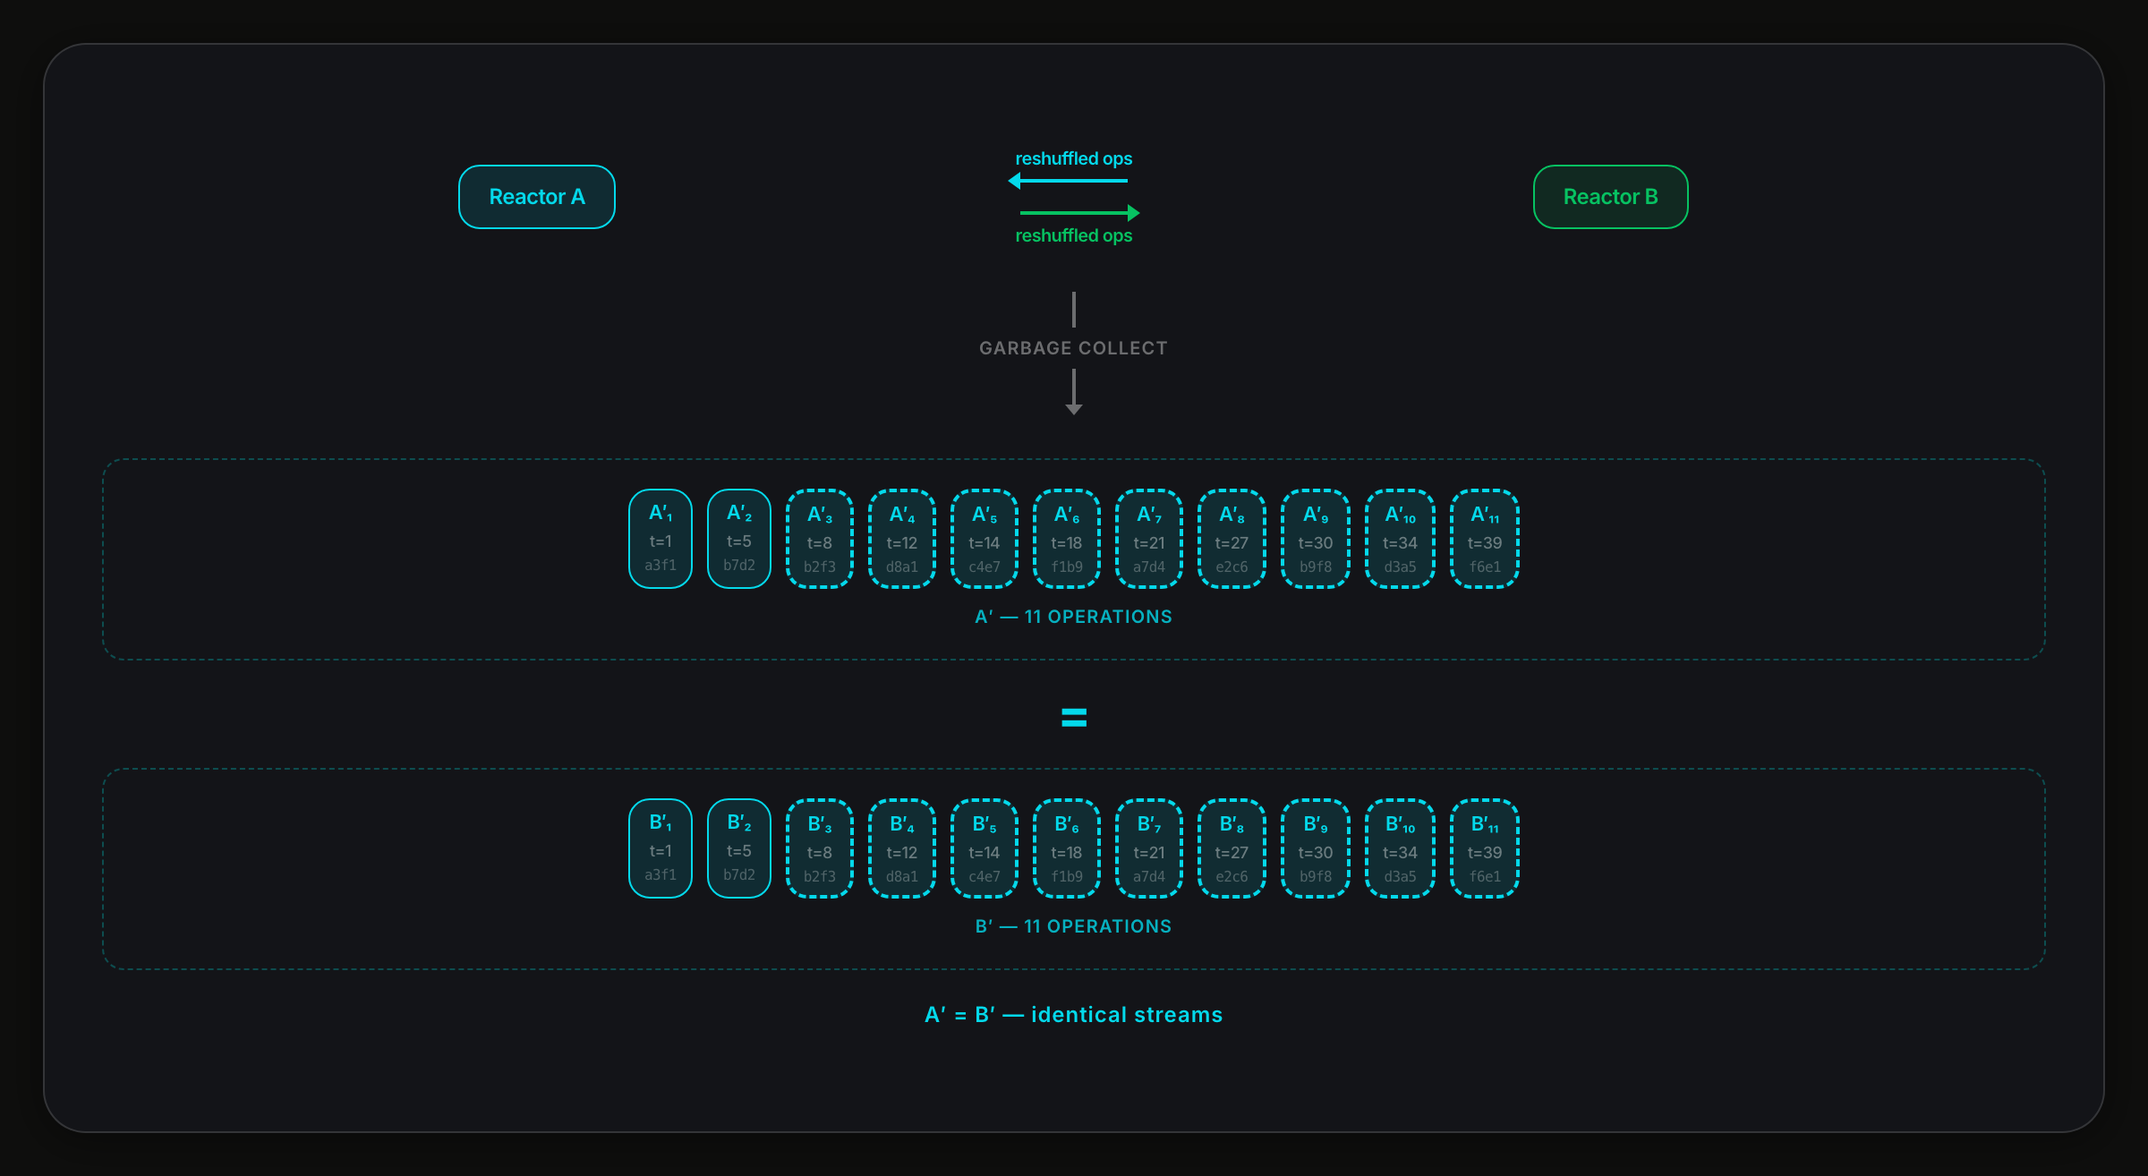
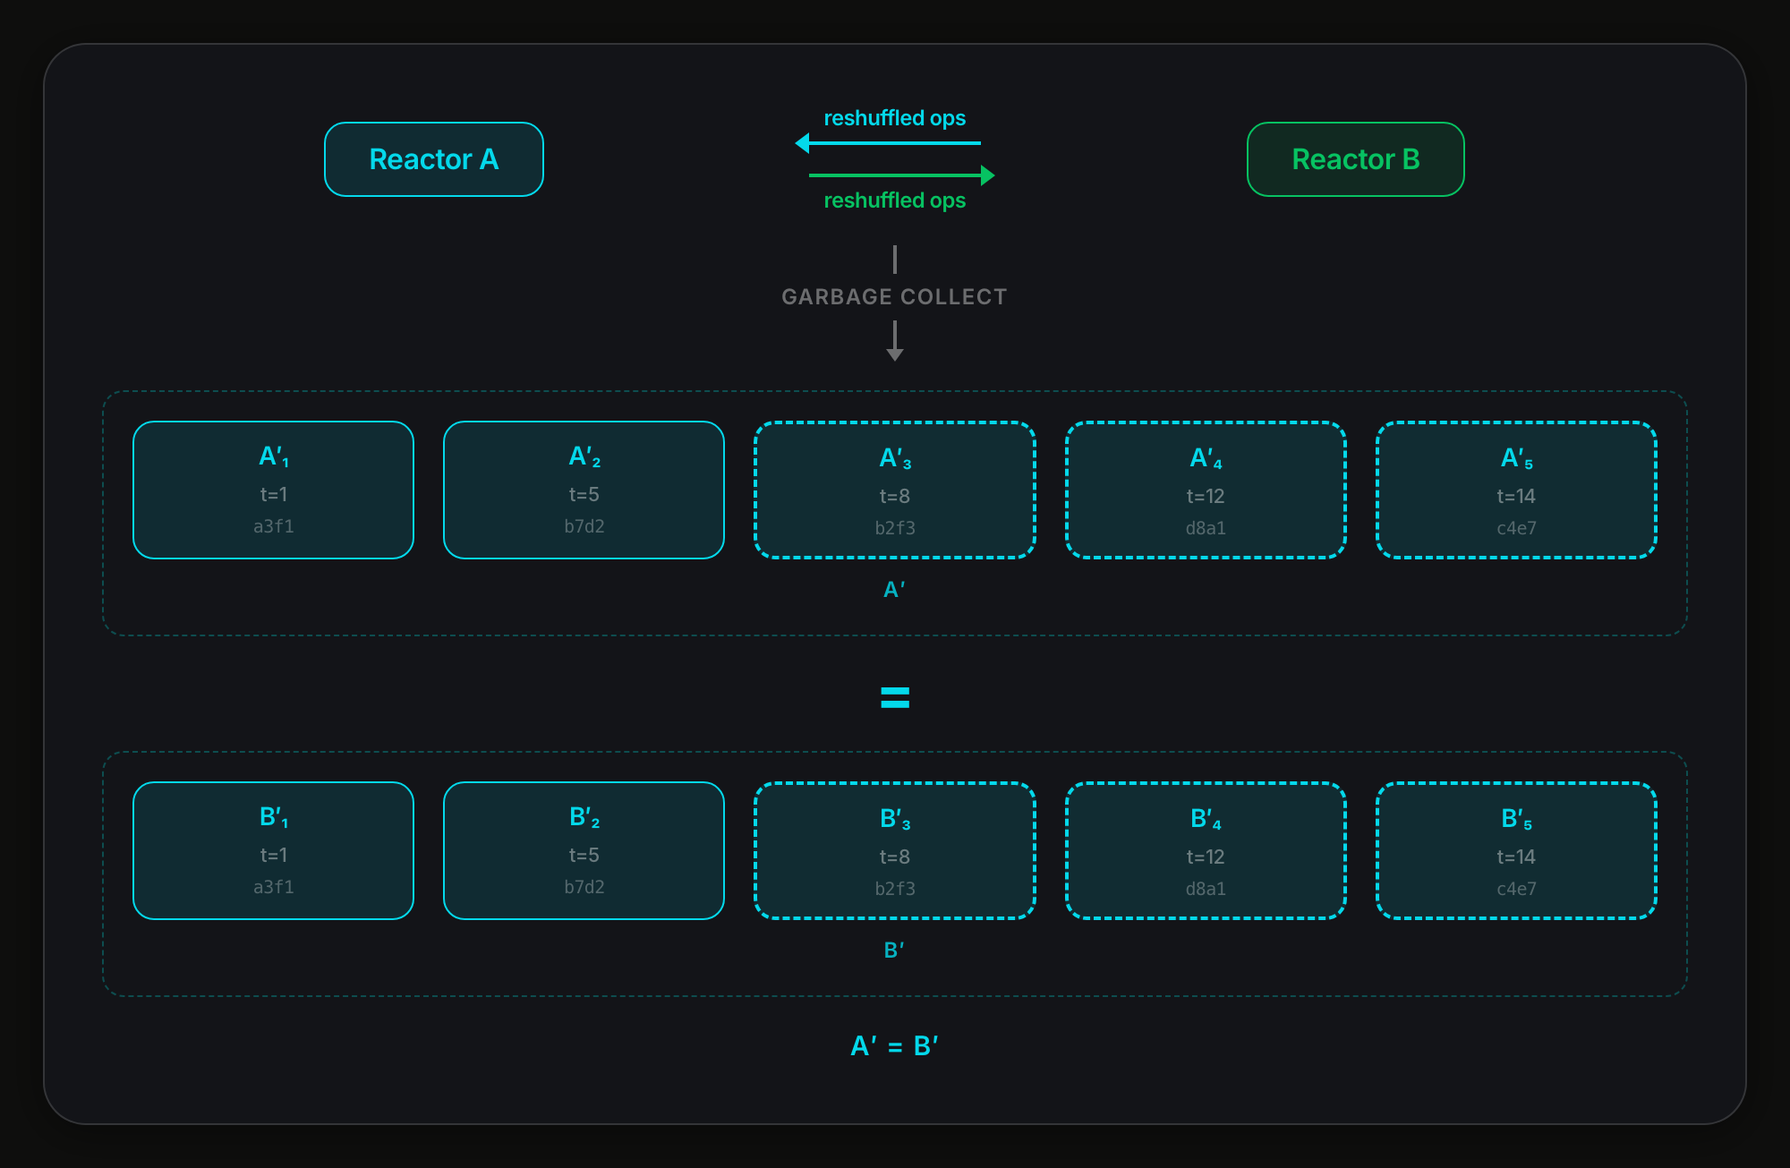
rebuild: bidirectional-sync authored larger, five ops a side

diff --git a/diagrams/pages/bidirectional-sync.html b/diagrams/pages/bidirectional-sync.html
@@ -9,7 +9,11 @@
   <link rel="stylesheet" href="../css/base.css">
   <link rel="stylesheet" href="../css/components.css">
   <style>
-    .frame { max-width: 1200px; }
+    /* Authored large on purpose. The deck scales this page up to fill its art box, and
+       hairline borders on small boxes break up under a fractional upscale — which is what
+       made the old 1200px / 11px / 11-op version look ragged. Five ops per stream is
+       enough to show A' and B' landing identical. */
+    .frame { max-width: 1000px; }
     .card { height: auto; }
     .card-body { flex: none; }
 
@@ -17,13 +21,14 @@
       background: var(--bg-elevated);
       border: 1px solid var(--border-glass);
       border-radius: var(--radius-md);
-      padding: var(--space-xs) var(--space-sm);
-      font-size: 11px;
+      padding: var(--space-sm) var(--space-md);
+      font-size: 14px;
       font-weight: var(--font-weight-semibold);
       text-align: center;
     }
     .box.accent-cyan  { border-color: var(--accent-cyan);  background: var(--accent-cyan-bg);  color: var(--accent-cyan); }
     .box.accent-green { border-color: var(--accent-green); background: var(--accent-green-bg); color: var(--accent-green); }
+    /* Operations created by the reshuffle, as opposed to ones carried over untouched. */
     .box.accent-new {
       border: 2px dashed var(--accent-cyan);
       background: var(--accent-cyan-bg);
@@ -31,24 +36,23 @@
     }
 
     .ts {
-      font-size: 9px;
-      color: var(--text-muted);
-      font-weight: var(--font-weight-medium);
       display: block;
-      margin-top: 1px;
+      font-size: 11px;
+      font-weight: var(--font-weight-medium);
+      color: var(--text-muted);
+      margin-top: 3px;
     }
-
     .hash {
-      font-size: 8px;
-      color: var(--text-muted);
-      font-family: var(--font-mono, 'SF Mono', 'Fira Code', monospace);
-      font-weight: var(--font-weight-medium);
       display: block;
-      opacity: 0.7;
-      margin-top: 1px;
+      font-family: var(--font-mono, 'SF Mono', 'Fira Code', monospace);
+      font-size: 10px;
+      font-weight: var(--font-weight-medium);
+      color: var(--text-muted);
+      opacity: 0.75;
+      margin-top: 2px;
     }
 
-    /* Reactor row with sync arrows */
+    /* Reactor A  <->  Reactor B */
     .reactor-row {
       display: grid;
       grid-template-columns: 1fr auto 1fr;
@@ -56,10 +60,10 @@
       align-items: center;
     }
     .reactor-label {
-      padding: var(--space-sm) var(--space-md);
-      font-size: 12px;
+      justify-self: center;
+      padding: var(--space-sm) var(--space-lg);
+      font-size: 16px;
     }
-
     .sync-arrows {
       display: flex;
       flex-direction: column;
@@ -72,60 +76,54 @@
       align-items: center;
       gap: var(--space-xs);
     }
-    .sync-arrow-line-left {
-      width: 60px;
+    .sync-line {
+      width: 96px;
       height: 2px;
-      background: var(--accent-cyan);
       position: relative;
     }
-    .sync-arrow-line-left::before {
+    .sync-line.to-left { background: var(--accent-cyan); }
+    .sync-line.to-left::before {
       content: '';
       position: absolute;
       right: 100%;
       top: 50%;
       transform: translateY(-50%);
-      border-top: 5px solid transparent;
-      border-bottom: 5px solid transparent;
-      border-right: 7px solid var(--accent-cyan);
+      border-top: 6px solid transparent;
+      border-bottom: 6px solid transparent;
+      border-right: 8px solid var(--accent-cyan);
     }
-    .sync-arrow-line-right {
-      width: 60px;
-      height: 2px;
-      background: var(--accent-green);
-      position: relative;
-    }
-    .sync-arrow-line-right::after {
+    .sync-line.to-right { background: var(--accent-green); }
+    .sync-line.to-right::after {
       content: '';
       position: absolute;
       left: 100%;
       top: 50%;
       transform: translateY(-50%);
-      border-top: 5px solid transparent;
-      border-bottom: 5px solid transparent;
-      border-left: 7px solid var(--accent-green);
+      border-top: 6px solid transparent;
+      border-bottom: 6px solid transparent;
+      border-left: 8px solid var(--accent-green);
     }
-    .sync-arrow-label {
-      font-size: 10px;
+    .sync-label {
+      font-size: 12px;
       font-weight: var(--font-weight-semibold);
       white-space: nowrap;
     }
-    .sync-arrow-label.label-cyan  { color: var(--accent-cyan); }
-    .sync-arrow-label.label-green { color: var(--accent-green); }
+    .sync-label.cyan  { color: var(--accent-cyan); }
+    .sync-label.green { color: var(--accent-green); }
 
-    /* Arrow down */
     .arrow-down {
       display: flex;
       flex-direction: column;
       align-items: center;
-      margin: var(--space-lg) 0;
+      margin: var(--space-md) 0;
     }
     .arrow-down-line {
       width: 2px;
-      height: 20px;
+      height: 16px;
       background: var(--text-muted);
     }
     .arrow-down-label {
-      font-size: 10px;
+      font-size: 12px;
       font-weight: var(--font-weight-semibold);
       color: var(--text-muted);
       text-transform: uppercase;
@@ -137,17 +135,16 @@
       height: 0;
       border-left: 5px solid transparent;
       border-right: 5px solid transparent;
-      border-top: 6px solid var(--text-muted);
+      border-top: 7px solid var(--text-muted);
     }
 
-    /* Section box and labels */
     .section-box {
       border: 1px dashed rgba(0, 209, 209, 0.3);
       border-radius: var(--radius-md);
       padding: var(--space-md);
     }
     .section-label {
-      font-size: 10px;
+      font-size: 12px;
       font-weight: var(--font-weight-semibold);
       color: var(--accent-cyan);
       text-transform: uppercase;
@@ -158,24 +155,21 @@
     }
 
     .op-row {
-      display: flex;
-      gap: var(--space-sm);
-      justify-content: center;
-      flex-wrap: wrap;
+      display: grid;
+      grid-template-columns: repeat(5, 1fr);
+      gap: var(--space-md);
     }
 
-    /* Equals indicator */
     .equals-indicator {
-      font-size: 28px;
+      font-size: 32px;
       font-weight: var(--font-weight-bold);
       color: var(--accent-cyan);
       text-align: center;
       line-height: 1;
       margin: var(--space-md) 0;
     }
-
     .convergence-label {
-      font-size: 12px;
+      font-size: 15px;
       font-weight: var(--font-weight-semibold);
       color: var(--accent-cyan);
       text-align: center;
@@ -187,25 +181,23 @@
 <body>
   <div class="frame">
     <div class="card">
-      <div class="card-body" style="padding-top: 24px; padding-bottom: 24px;">
+      <div class="card-body">
 
-        <!-- Reactor labels with sync arrows -->
         <div class="reactor-row">
-          <div class="box accent-cyan reactor-label" style="justify-self: center;">Reactor A</div>
+          <div class="box accent-cyan reactor-label">Reactor A</div>
           <div class="sync-arrows">
             <div class="sync-arrow-wrapper">
-              <div class="sync-arrow-label label-cyan">reshuffled ops</div>
-              <div class="sync-arrow-line-left"></div>
+              <div class="sync-label cyan">reshuffled ops</div>
+              <div class="sync-line to-left"></div>
             </div>
             <div class="sync-arrow-wrapper">
-              <div class="sync-arrow-line-right"></div>
-              <div class="sync-arrow-label label-green">reshuffled ops</div>
+              <div class="sync-line to-right"></div>
+              <div class="sync-label green">reshuffled ops</div>
             </div>
           </div>
-          <div class="box accent-green reactor-label" style="justify-self: center;">Reactor B</div>
+          <div class="box accent-green reactor-label">Reactor B</div>
         </div>
 
-        <!-- Arrow down -->
         <div class="arrow-down">
           <div class="arrow-down-line"></div>
           <div class="arrow-down-label">garbage collect</div>
@@ -213,46 +205,33 @@
           <div class="arrow-down-head"></div>
         </div>
 
-        <!-- A′ GC'd stream -->
+        <!-- A' after reshuffle: two ops carried over, three newly created -->
         <div class="section-box">
           <div class="op-row">
-            <div class="box accent-cyan">A′₁ <span class="ts">t=1</span><span class="hash">a3f1</span></div>
-            <div class="box accent-cyan">A′₂ <span class="ts">t=5</span><span class="hash">b7d2</span></div>
-            <div class="box accent-new">A′₃ <span class="ts">t=8</span><span class="hash">b2f3</span></div>
-            <div class="box accent-new">A′₄ <span class="ts">t=12</span><span class="hash">d8a1</span></div>
-            <div class="box accent-new">A′₅ <span class="ts">t=14</span><span class="hash">c4e7</span></div>
-            <div class="box accent-new">A′₆ <span class="ts">t=18</span><span class="hash">f1b9</span></div>
-            <div class="box accent-new">A′₇ <span class="ts">t=21</span><span class="hash">a7d4</span></div>
-            <div class="box accent-new">A′₈ <span class="ts">t=27</span><span class="hash">e2c6</span></div>
-            <div class="box accent-new">A′₉ <span class="ts">t=30</span><span class="hash">b9f8</span></div>
-            <div class="box accent-new">A′₁₀ <span class="ts">t=34</span><span class="hash">d3a5</span></div>
-            <div class="box accent-new">A′₁₁ <span class="ts">t=39</span><span class="hash">f6e1</span></div>
+            <div class="box accent-cyan">A&prime;&#8321;<span class="ts">t=1</span><span class="hash">a3f1</span></div>
+            <div class="box accent-cyan">A&prime;&#8322;<span class="ts">t=5</span><span class="hash">b7d2</span></div>
+            <div class="box accent-new">A&prime;&#8323;<span class="ts">t=8</span><span class="hash">b2f3</span></div>
+            <div class="box accent-new">A&prime;&#8324;<span class="ts">t=12</span><span class="hash">d8a1</span></div>
+            <div class="box accent-new">A&prime;&#8325;<span class="ts">t=14</span><span class="hash">c4e7</span></div>
           </div>
-          <div class="section-label">A&prime; &mdash; 11 operations</div>
+          <div class="section-label">A&prime;</div>
         </div>
 
-        <!-- Equals -->
         <div class="equals-indicator">=</div>
 
-        <!-- B′ GC'd stream -->
+        <!-- B' lands on exactly the same stream -->
         <div class="section-box">
           <div class="op-row">
-            <div class="box accent-cyan">B′₁ <span class="ts">t=1</span><span class="hash">a3f1</span></div>
-            <div class="box accent-cyan">B′₂ <span class="ts">t=5</span><span class="hash">b7d2</span></div>
-            <div class="box accent-new">B′₃ <span class="ts">t=8</span><span class="hash">b2f3</span></div>
-            <div class="box accent-new">B′₄ <span class="ts">t=12</span><span class="hash">d8a1</span></div>
-            <div class="box accent-new">B′₅ <span class="ts">t=14</span><span class="hash">c4e7</span></div>
-            <div class="box accent-new">B′₆ <span class="ts">t=18</span><span class="hash">f1b9</span></div>
-            <div class="box accent-new">B′₇ <span class="ts">t=21</span><span class="hash">a7d4</span></div>
-            <div class="box accent-new">B′₈ <span class="ts">t=27</span><span class="hash">e2c6</span></div>
-            <div class="box accent-new">B′₉ <span class="ts">t=30</span><span class="hash">b9f8</span></div>
-            <div class="box accent-new">B′₁₀ <span class="ts">t=34</span><span class="hash">d3a5</span></div>
-            <div class="box accent-new">B′₁₁ <span class="ts">t=39</span><span class="hash">f6e1</span></div>
+            <div class="box accent-cyan">B&prime;&#8321;<span class="ts">t=1</span><span class="hash">a3f1</span></div>
+            <div class="box accent-cyan">B&prime;&#8322;<span class="ts">t=5</span><span class="hash">b7d2</span></div>
+            <div class="box accent-new">B&prime;&#8323;<span class="ts">t=8</span><span class="hash">b2f3</span></div>
+            <div class="box accent-new">B&prime;&#8324;<span class="ts">t=12</span><span class="hash">d8a1</span></div>
+            <div class="box accent-new">B&prime;&#8325;<span class="ts">t=14</span><span class="hash">c4e7</span></div>
           </div>
-          <div class="section-label">B&prime; &mdash; 11 operations</div>
+          <div class="section-label">B&prime;</div>
         </div>
 
-        <div class="convergence-label">A&prime; = B&prime; &mdash; identical streams</div>
+        <div class="convergence-label">A&prime; = B&prime;</div>
 
       </div>
     </div>

diff --git a/index.html b/index.html
@@ -81,7 +81,7 @@
       <section data-slide="24"><header class="hd"><h2>Step 2: find the merge base</h2><span class="sec">Act III — Sync</span></header><div class="art"><div class="fit"><iframe src="diagrams/pages/merge-base-highlighted.html" data-w="1200" style="width:1200px" scrolling="no" title="Merge base and the conflicted range"></iframe></div></div><aside class="notes"><h4>Step 2: find the merge base</h4><ul><li>II: &quot;we walk from start to front to find where the streams diverge, relative to A.&quot;</li><li>Same hash means same operation. First mismatch is the divergence. II: &quot;In more familiar git terminology, this would be called the 'merge base'.&quot;</li><li>II: &quot;we now have 9 operations in a conflicted state: 4 from A and 5 from B.&quot;</li></ul></aside></section>
       <section data-slide="25"><header class="hd"><h2>Step 3: replay from the merge base</h2><span class="sec">Act III — Sync</span></header><div class="art"><div class="fit"><iframe src="diagrams/pages/reshuffled-new-ops.html" data-w="1100" style="width:1100px" scrolling="no" title="Replay actions in timestamp order as new operations"></iframe></div></div><aside class="notes"><h4>Step 3: replay from the merge base</h4><ul><li>Replay the 9 Actions in timestamp order. Nine new Operations.</li><li>II: &quot;the hashes of each of the new operations will be different than the original, but the timestamps remain the same... the ordinal is part of the hash.&quot;</li><li>II: &quot;This hash, however, is different than the signature (which itself is a hash) on the Action. That is, the user's intent did not change.&quot;</li></ul></aside></section>
       <section data-slide="26"><header class="hd"><h2>Step 4: skip, then garbage-collect</h2><span class="sec">Act III — Sync</span></header><div class="art"><div class="fit"><iframe src="diagrams/pages/skip-value-gc-stream.html" data-w="1200" style="width:1200px" scrolling="no" title="Skip value and the garbage-collected stream"></iframe></div></div><aside class="notes"><h4>Step 4: skip, then garbage-collect</h4><ul><li>II: &quot;since 4 of these operations are already in A, they have already been written to the append-only operation store. Blast those fickle audit trails! We can't delete these, so instead we need to skip them.&quot;</li><li>II: &quot;the skip value of 4 on A₇ means that when we create a projection of this stream, we will skip the preceding 4 operations.&quot;</li><li>II: &quot;The operation stream with all of the skipped operations removed we call the garbage collected stream.&quot;</li></ul></aside></section>
-      <section data-slide="27"><header class="hd"><h2>Both sides converge</h2><span class="sec">Act III — Sync</span></header><div class="art"><div class="fit"><iframe src="diagrams/pages/bidirectional-sync.html" data-w="1200" style="width:1200px" scrolling="no" title="Bidirectional sync: A′ = B′"></iframe></div></div><aside class="notes"><h4>Both sides converge</h4><ul><li>Same procedure on both peers, exchange reshuffled ops, A′ = B′. Repeats as work continues (ping-pong, appendix).</li></ul></aside></section>
+      <section data-slide="27"><header class="hd"><h2>Both sides converge</h2><span class="sec">Act III — Sync</span></header><div class="art"><div class="fit"><iframe src="diagrams/pages/bidirectional-sync.html" data-w="1000" style="width:1000px" scrolling="no" title="Bidirectional sync: A′ = B′"></iframe></div></div><aside class="notes"><h4>Both sides converge</h4><ul><li>Same procedure on both peers, exchange reshuffled ops, A′ = B′. Repeats as work continues (ping-pong, appendix).</li></ul></aside></section>
       <section data-slide="28"><header class="hd"><h2>When reordering intent is itself unacceptable</h2><span class="sec">Act III — Sync</span></header><div class="art"><div class="fit"><iframe src="diagrams/pages/signature-binding.html" data-w="1200" style="width:1200px" scrolling="no" title="Payload-only vs payload + input-state-hash signatures"></iframe></div></div><aside class="notes"><h4>When reordering intent is itself unacceptable</h4><ul><li>II: &quot;There are scenarios in which even re-ordering user intent is not desirable.&quot; Multiple parties sign a statement; if it changes, &quot;the parties need to start over.&quot;</li><li>II: &quot;While we can technically sync all the changes into a consistent event stream, the semantic guarantees of the reducer would be broken.&quot;</li><li>II: &quot;By default, the action signature is only on the action payload, but in high security applications, we can also include a hash of the input state.&quot;</li><li>Edge case: statement changes and changes back; hashes match again. Add the previous Operation id (appendix). II: &quot;This type of signature will reject on any reshuffle and any state change.&quot;</li><li>II: &quot;Operational Reshuffle, by default, preserves intent through reshuffle and can optionally preserve resulting state change as well.&quot;</li></ul></aside></section>
       <section data-slide="29"><header class="hd"><h2>Channels and mailboxes</h2><span class="sec">Act IV — Over the network</span></header><div class="art"><div class="fit"><iframe src="diagrams/pages/channel-mailbox-breakdown.html" data-w="700" style="width:700px" scrolling="no" title="Inbox, outbox, dead-letter mailboxes between two Reactors"></iframe></div></div><aside class="notes"><h4>Channels and mailboxes</h4><ul><li>One channel per pair of Reactors. Outbox, inbox, dead letter. All FIFO.</li><li>III: &quot;The dead letter mailbox holds operations that failed in a way that cannot be retried. These might result from a bad signature, a hash mismatch, or some other unrecoverable rejection.&quot;</li><li>III: &quot;Every operation a Reactor outputs is stamped with an ordinal: a monotonically increasing integer. These are not globally increasing, only locally increasing.&quot; &quot;The ordinal is a total order over every operation the Reactor has ever seen, across all documents, in the order it saw them.&quot;</li></ul></aside></section>
       <section data-slide="30"><header class="hd"><h2>The entire sync state is four integers</h2><span class="sec">Act IV — Over the network</span></header><div class="art"><div class="fit"><iframe src="diagrams/pages/sync-cursors.html" data-w="1100" style="width:1100px" scrolling="no" title="Sync cursors: inbox/outbox × ack/latest"></iframe></div></div><aside class="notes"><h4>The entire sync state is four integers</h4><ul><li>III: &quot;inbox.ack: the highest remote ordinal we have durably applied. inbox.latest: the highest remote ordinal we have seen. outbox.ack: the highest local ordinal the remote has durably applied. outbox.latest: the highest local ordinal we've produced that matches the filter.&quot;</li><li>III: &quot;That's it. The entire synchronization state between two Reactors is a measly four integers (if JS had integers).&quot;</li><li>III: &quot;ack ≤ latest.&quot; &quot;They only ever increase. There is no message, failure, or retry that moves a cursor backwards.&quot; &quot;'Synced' just means ack == latest in both directions.&quot;</li><li>III: &quot;if the poll response gets lost due to some sort of network hiccup, we can simply ask again with the same cursors. The server re-sends everything after the ack. We can't miss operations, because ack only advances once we've actually applied them.&quot;</li><li>III: &quot;If we... push the same operations twice... the Reactor dedupes by action id.&quot;</li><li>III: &quot;What about a crash where the whole process dies? All the Reactor needs to do is read two cursors out of storage and resume. The mailboxes rebuild themselves.&quot;</li><li>III: &quot;delivery is at-least-once, application is idempotent, and progress is monotonic.&quot;</li></ul></aside></section>
